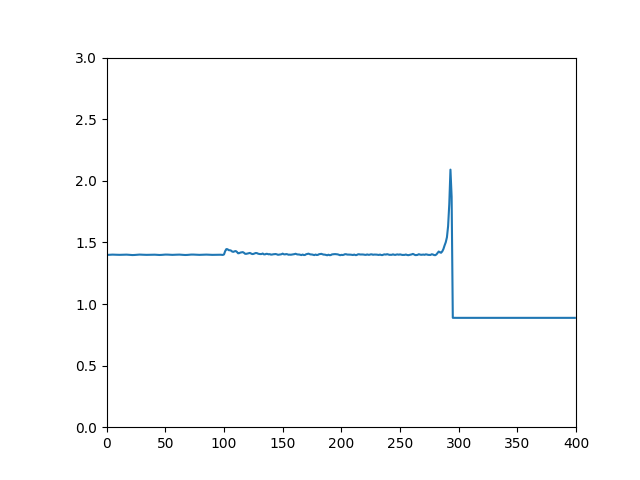
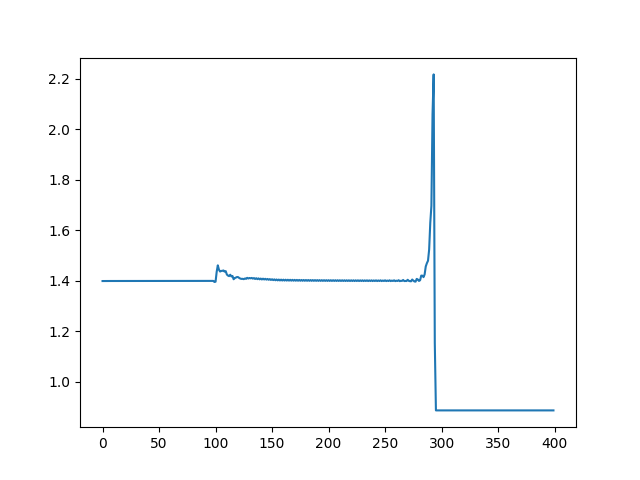
updated reactive euler test

diff --git a/docs/pages/example_code.rst b/docs/pages/example_code.rst
@@ -122,7 +122,7 @@ the simulation. We plot the final state of the domain for variable 0 (density):
 
     from pypde import pde_solver
 
-    out = pde_solver(Q0, tf, L, F=F, S=S)
+    out = pde_solver(Q0, tf, L, F=F, S=S, stiff=False, flux='roe', order=3)
 
     plt.plot(out[-1, :, 0])
     plt.show()
